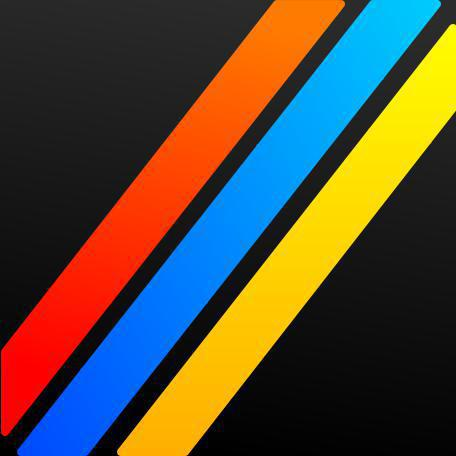
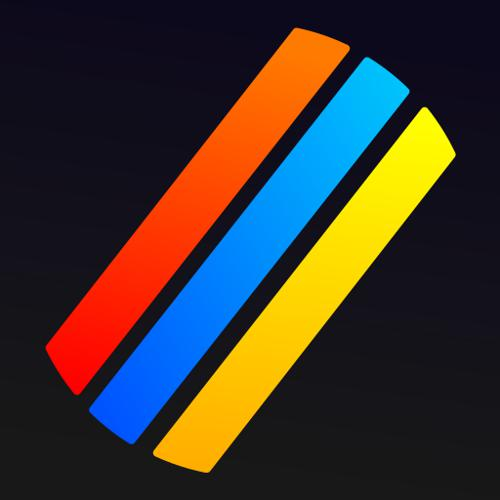
use better image for @encukou, fix how/if images get modified

diff --git a/juniorguru/lib/images.py b/juniorguru/lib/images.py
@@ -48,12 +48,21 @@ def downsize_square_photo(path, side_px):
 
 
 def replace_with_jpg(path):
+    modified = False
     with Image.open(path) as image:
-        path.unlink()
-        path = path.with_suffix('.jpg')
-        image = image.convert('RGB')
-        image.save(path, 'JPEG')
-        return path
+        if image.mode != 'RGB':
+            modified = True
+            image = image.convert('RGB')
+
+        path_jpg = path.with_suffix('.jpg')
+        if path != path_jpg:
+            modified = True
+            path.unlink()
+            path = path_jpg
+
+        if modified:
+            image.save(path, 'JPEG')
+    return path
 
 
 def render_template(width, height, template_name, context, filters=None):
